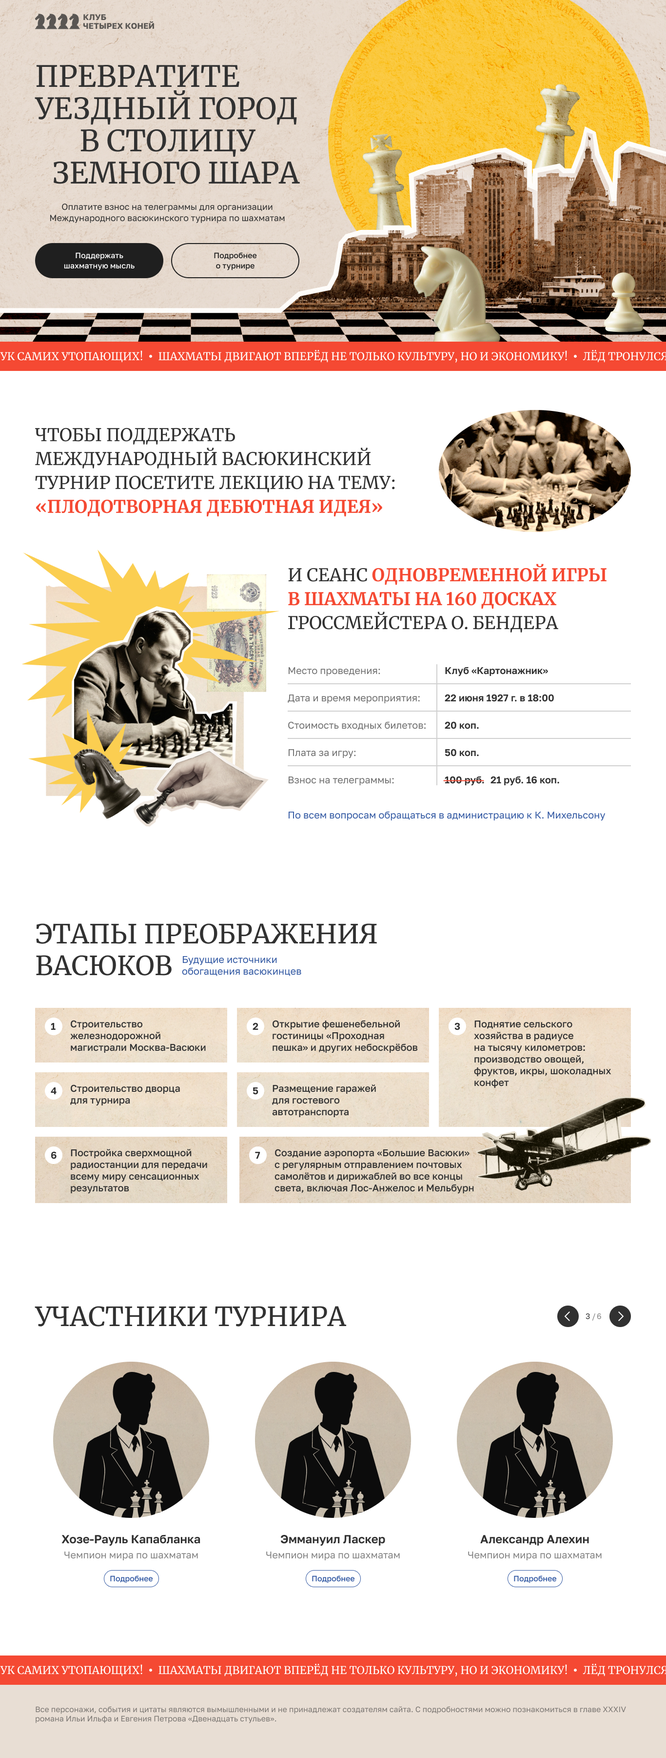
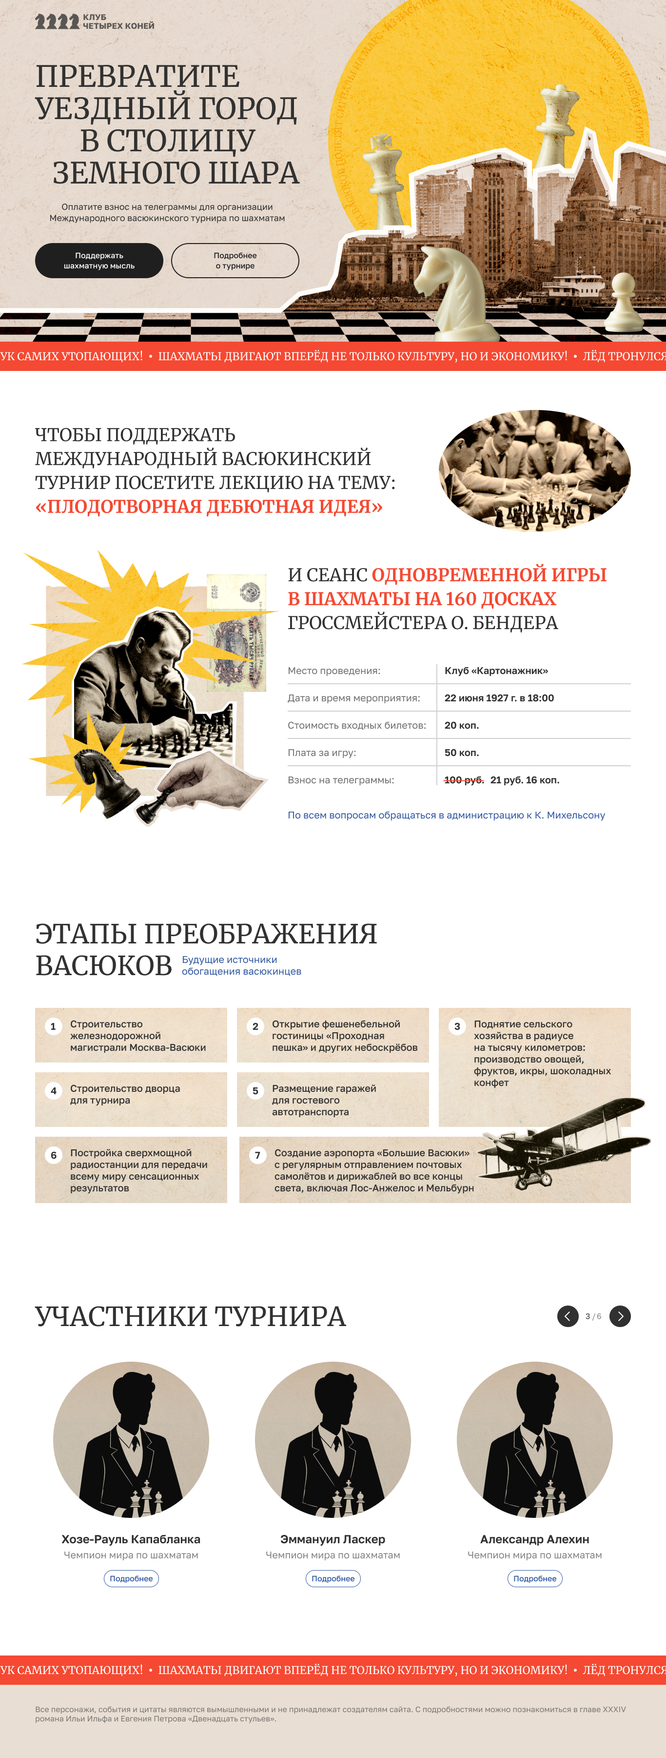
save

Changed region(s): [[0.0615, 0.3109, 0.3997, 0.4664]]

diff --git a/app/index.html b/app/index.html
@@ -1,1 +1,1 @@
-<!DOCTYPE html><html lang="ru"><head><meta charset="UTF-8"><meta http-equiv="X-UA-Compatible" content="IE=edge"><meta name="viewport" content="width=device-width,initial-scale=1"><title>Клуб четырех коней</title><link rel="icon" href="./images/favicons/favicon.ico" type="image/x-icon"><link rel="stylesheet" href="css/style.min.css"></head><body><header class="header"><div class="header__wrapper" style="background-image: url('../images/content/cover.jpg');"><div class="container"><div class="header__inner"><a class="header__logo logo" href="#"><img class="logo__img" src="./images/logo.png" alt="logo"></a><div class="header__content"><h1 class="header__title title"><span>Превратите уездный город</span> <span>в столицу</span> <span>земного шара</span></h1><div class="header__descr"><p>Оплатите взнос на телеграммы для организации Международного васюкинского турнира по шахматам</p></div><div class="header__btn-box"><button class="header__btn-dark">Поддержать шахматую мысль</button> <button class="header__btn-light">Подробнее<br>о турнире</button></div></div></div></div></div><div class="header__runnung-line"><div class="running-line"><ul class="running-line__box"><li>Дело помощи утопающим — дело рук самих утопающих!</li><li>Шахматы двигают вперед не только культуру, но и экономику!</li><li>Лед тронулся, господа присяжные заседатели!</li></ul><ul class="running-line__box"><li>Дело помощи утопающим — дело рук самих утопающих!</li><li>Шахматы двигают вперед не только культуру, но и экономику!</li><li>Лед тронулся, господа присяжные заседатели!</li></ul></div></div></header><main class="main"><section class="info"><div class="container"><div class="info__top"><div class="info__text-title title"><p>Чтобы поддержать Международный васюкинский турнир посетите лекцию на тему: <span>«Плодотворная дебютная идея»</span></p><picture><source srcset="images/content/info-img-1.webp" type="image/webp"><img class="info__top-img" src="images/content/info-img-1.jpg" alt="info-img"></picture></div></div><div class="info__inner"><div class="info__content"><picture><source srcset="images/content/info-img-2.webp" type="image/webp"><img class="info__content-img" src="images/content/info-img-2.png" alt="info-img"></picture><div class="info__text-title title"><p>и Сеанс <span>одновременной игры в шахматы на 160 досках</span> гроссмейстера О. Бендера</p></div><ul class="info__list"><li class="info__item">Место проведения: <span>Клуб «Картонажник»</span></li><li class="info__item">Дата и время мероприятия: <span>22 июня 1927 г. в 18:00</span></li><li class="info__item">Стоимость входных билетов: <span>20 коп.</span></li><li class="info__item">Плата за игру: <span>50 коп.</span></li><li class="info__item">Взнос на телеграммы: <span><span>100 руб.</span> <span>21 руб. 16 коп.</span></span></li></ul><a class="info__link" href="#">По всем вопросам обращаться в администрацию к К. Михельсону</a></div></div></div></section><section class="blog"><div class="container"><h2 class="blog__title title">Этапы преображения Васюков <span>Будущие источники обогащения васюкинцев</span></h2><div class="blog__wrapper"><ol class="blog__list"><li class="blog__item" style="background-image: url('images/decor/blog-bg.jpg')">Строительство железнодорожной магистрали Москва-Васюки</li><li class="blog__item" style="background-image: url('images/decor/blog-bg.jpg')">Открытие фешенебельной гостиницы «Проходная пешка» и других небоскрёбов</li><li class="blog__item" style="background-image: url('images/decor/blog-bg.jpg')">Поднятие сельского хозяйства в радиусе на тысячу километров: производство овощей, фруктов, икры, шоколадных конфет</li><li class="blog__item" style="background-image: url('images/decor/blog-bg.jpg')">Строительство дворца для турнира</li><li class="blog__item" style="background-image: url('images/decor/blog-bg.jpg')">Размещение гаражей для гостевого автотранспорта</li><li class="blog__item" style="background-image: url('images/decor/blog-bg.jpg')">Постройка сверхмощной радиостанции для передачи всему миру сенсационных результатов</li><li class="blog__item" style="background-image: url('images/decor/blog-bg.jpg')">Создание аэропорта «Большие Васюки» с регулярным отправлением почтовых самолётов и дирижаблей во все концы света, включая Лос-Анжелос и Мельбурн</li></ol><picture><source srcset="images/decor/airplane.webp" type="image/webp"><img class="blog__img" src="images/decor/airplane.png" alt="airplane"></picture></div></div></section></main><footer class="footer"><div class="footer__running-line"><div class="running-line"><ul class="running-line__box"><li>Дело помощи утопающим — дело рук самих утопающих!</li><li>Шахматы двигают вперед не только культуру, но и экономику!</li><li>Лед тронулся, господа присяжные заседатели!</li></ul><ul class="running-line__box"><li>Дело помощи утопающим — дело рук самих утопающих!</li><li>Шахматы двигают вперед не только культуру, но и экономику!</li><li>Лед тронулся, господа присяжные заседатели!</li></ul></div></div><div class="container"><div class="footer__text"><p>Все персонажи, события и цитаты являются вымышленными и не принадлежат создателям сайта. С подробностями можно познакомиться в главе XXXIV романа Ильи Ильфа и Евгения Петрова «Двенадцать стульев».</p></div></div></footer><script src="js/main.min.js"></script></body></html>
+<!DOCTYPE html><html lang="ru"><head><meta charset="UTF-8"><meta http-equiv="X-UA-Compatible" content="IE=edge"><meta name="viewport" content="width=device-width,initial-scale=1"><title>Клуб четырех коней</title><link rel="icon" href="./images/favicons/favicon.ico" type="image/x-icon"><link rel="stylesheet" href="css/style.min.css"></head><body><header class="header"><div class="header__wrapper" style="background-image: url('../images/content/cover.jpg');"><div class="container"><div class="header__inner"><a class="header__logo logo" href="#"><img class="logo__img" src="./images/logo.png" alt="logo"></a><div class="header__content"><h1 class="header__title title"><span>Превратите уездный город</span> <span>в столицу</span> <span>земного шара</span></h1><div class="header__descr"><p>Оплатите взнос на телеграммы для организации Международного васюкинского турнира по шахматам</p></div><div class="header__btn-box"><button class="header__btn-dark">Поддержать шахматую мысль</button> <button class="header__btn-light">Подробнее<br>о турнире</button></div></div></div></div></div><div class="header__runnung-line"><div class="running-line"><ul class="running-line__box"><li>Дело помощи утопающим — дело рук самих утопающих!</li><li>Шахматы двигают вперед не только культуру, но и экономику!</li><li>Лед тронулся, господа присяжные заседатели!</li></ul><ul class="running-line__box"><li>Дело помощи утопающим — дело рук самих утопающих!</li><li>Шахматы двигают вперед не только культуру, но и экономику!</li><li>Лед тронулся, господа присяжные заседатели!</li></ul></div></div></header><main class="main"><section class="info"><div class="container"><div class="info__top"><div class="info__text-title title"><p>Чтобы поддержать Международный васюкинский турнир посетите лекцию на тему: <span>«Плодотворная дебютная идея»</span></p><picture><source srcset="images/content/info-img-1.webp" type="image/webp"><img class="info__top-img" src="images/content/info-img-1.jpg" alt="info-img"></picture></div></div><div class="info__inner"><div class="info__content"><picture><source srcset="images/content/info-img-2.webp" type="image/webp"><img class="info__content-img" src="images/content/info-img-2.png" alt="info-img"></picture><div class="info__text-title title"><p>и Сеанс <span>одновременной игры в шахматы на 160 досках</span> гроссмейстера О. Бендера</p></div><ul class="info__list"><li class="info__item">Место проведения: <span>Клуб «Картонажник»</span></li><li class="info__item">Дата и время мероприятия: <span>22 июня 1927 г. в 18:00</span></li><li class="info__item">Стоимость входных билетов: <span>20 коп.</span></li><li class="info__item">Плата за игру: <span>50 коп.</span></li><li class="info__item">Взнос на телеграммы: <span><span>100 руб.</span> <span>21 руб. 16 коп.</span></span></li></ul><a class="info__link" href="#">По всем вопросам обращаться в администрацию к К. Михельсону</a></div></div></div></section><section class="blog"><div class="container"><h2 class="blog__title title">Этапы преображения Васюков <span>Будущие источники обогащения васюкинцев</span></h2><div class="blog__wrapper"><ol class="blog__list"><li class="blog__item" style="background-image: url('images/decor/blog-bg.jpg')">Строительство железнодорожной магистрали Москва-Васюки</li><li class="blog__item" style="background-image: url('images/decor/blog-bg.jpg')">Открытие фешенебельной гостиницы «Проходная пешка» и других небоскрёбов</li><li class="blog__item" style="background-image: url('images/decor/blog-bg.jpg')">Поднятие сельского хозяйства в радиусе на тысячу километров: производство овощей, фруктов, икры, шоколадных конфет</li><li class="blog__item" style="background-image: url('images/decor/blog-bg.jpg')">Строительство дворца для турнира</li><li class="blog__item" style="background-image: url('images/decor/blog-bg.jpg')">Размещение гаражей для гостевого автотранспорта</li><li class="blog__item" style="background-image: url('images/decor/blog-bg.jpg')">Постройка сверхмощной радиостанции для передачи всему миру сенсационных результатов</li><li class="blog__item" style="background-image: url('images/decor/blog-bg.jpg')">Создание аэропорта «Большие Васюки» с регулярным отправлением почтовых самолётов и дирижаблей во все концы света, включая Лос-Анжелос и Мельбурн</li></ol><picture><source srcset="images/decor/airplane.webp" type="image/webp"><img class="blog__img" src="images/decor/airplane.png" alt="airplane"></picture></div></div></section><section class="author"><div class="container"><div class="author__top"><h2 class="author__title title">Участники турнира</h2><div class="author__btn-box"><botton class="author__btn-prev"><svg width="12px" height="19px" viewBox="0 0 12 19"><path d="M 1.550781 8.660156 C 1.082031 9.125 1.082031 9.878906 1.550781 10.34375 L 7.550781 16.28125 C 8.019531 16.742188 8.78125 16.742188 9.25 16.28125 C 9.71875 15.816406 9.71875 15.0625 9.25 14.597656 L 4.097656 9.5 L 9.246094 4.402344 C 9.714844 3.9375 9.714844 3.183594 9.246094 2.71875 C 8.777344 2.257812 8.015625 2.257812 7.546875 2.71875 L 1.546875 8.65625 Z M 1.550781 8.660156 "/></svg><!-- <svg class="author__btn-left" width="12" height="20">              <svg class="author__btn-left" width="12px" height="20px">                <use href="images/sprite.svg#arrow-left"></use>              </svg> --></botton><button class="author__btn-next"><svg width="12px" height="19px" viewBox="0 0 12 19"><path d="M 10.449219 8.660156 C 10.917969 9.125 10.917969 9.878906 10.449219 10.34375 L 4.449219 16.28125 C 3.980469 16.742188 3.21875 16.742188 2.75 16.28125 C 2.28125 15.816406 2.28125 15.0625 2.75 14.597656 L 7.902344 9.5 L 2.753906 4.402344 C 2.285156 3.9375 2.285156 3.183594 2.753906 2.71875 C 3.222656 2.257812 3.984375 2.257812 4.453125 2.71875 L 10.453125 8.65625 Z M 10.449219 8.660156 "/></svg><!-- <svg class="author__btn-right" width="12" height="20">                <svg class="author__btn-right" width="12px" height="20px">                <use href="images/sprite.svg#arrow-right"></use>              </svg> --></button></div></div><ul class="author__list"><li class="author__item"><picture><source srcset="images/content/avatar/avatar-1.webp" type="image/webp"><img class="author__img" src="images/content/avatar/avatar-1.jpg" alt="author"></picture><div class="author__box"><span class="author__name">Хозе-Рауль Капабланка</span> <span class="author__rank">Чемпион мира по шахматам</span> <a class="author__link" href="#">Подробнее</a></div></li><li class="author__item"><picture><source srcset="images/content/avatar/avatar-1.webp" type="image/webp"><img class="author__img" src="images/content/avatar/avatar-1.jpg" alt="author"></picture><div class="author__box"><span class="author__name">Эммануил Ласкер</span> <span class="author__rank">Чемпион мира по шахматам</span> <a class="author__link" href="#">Подробнее</a></div></li><li class="author__item"><picture><source srcset="images/content/avatar/avatar-1.webp" type="image/webp"><img class="author__img" src="images/content/avatar/avatar-1.jpg" alt="author"></picture><div class="author__box"><span class="author__name">Александр Алехин</span> <span class="author__rank">Чемпион мира по шахматам</span> <a class="author__link" href="#">Подробнее</a></div></li><li class="author__item"><picture><source srcset="images/content/avatar/avatar-1.webp" type="image/webp"><img class="author__img" src="images/content/avatar/avatar-1.jpg" alt="author"></picture><div class="author__box"><span class="author__name">Арон Нимцович</span> <span class="author__rank">Чемпион мира по шахматам</span> <a class="author__link" href="#">Подробнее</a></div></li><li class="author__item"><picture><source srcset="images/content/avatar/avatar-1.webp" type="image/webp"><img class="author__img" src="images/content/avatar/avatar-1.jpg" alt="author"></picture><div class="author__box"><span class="author__name">Рихард Рети</span> <span class="author__rank">Чемпион мира по шахматам</span> <a class="author__link" href="#">Подробнее</a></div></li><li class="author__item"><picture><source srcset="images/content/avatar/avatar-1.webp" type="image/webp"><img class="author__img" src="images/content/avatar/avatar-1.jpg" alt="author"></picture><div class="author__box"><span class="author__name">Остап Бендер</span> <span class="author__rank">Гроссмейстер</span> <a class="author__link" href="#">Подробнее</a></div></li></ul></div></section></main><footer class="footer"><div class="footer__running-line"><div class="running-line"><ul class="running-line__box"><li>Дело помощи утопающим — дело рук самих утопающих!</li><li>Шахматы двигают вперед не только культуру, но и экономику!</li><li>Лед тронулся, господа присяжные заседатели!</li></ul><ul class="running-line__box"><li>Дело помощи утопающим — дело рук самих утопающих!</li><li>Шахматы двигают вперед не только культуру, но и экономику!</li><li>Лед тронулся, господа присяжные заседатели!</li></ul></div></div><div class="container"><div class="footer__text"><p>Все персонажи, события и цитаты являются вымышленными и не принадлежат создателям сайта. С подробностями можно познакомиться в главе XXXIV романа Ильи Ильфа и Евгения Петрова «Двенадцать стульев».</p></div></div></footer><script src="js/main.min.js"></script></body></html>

diff --git a/app/html/index.html b/app/html/index.html
@@ -95,6 +95,93 @@
       </div>
     </section>
 
+    <section class="author">
+      <div class="container">
+        <div class="author__top">
+          <h2 class="author__title title">Участники турнира</h2>
+          <div class="author__btn-box">
+            <botton class="author__btn-prev">
+              <svg width="12px" height="19px" viewBox="0 0 12 19">
+                <path
+                  d="M 1.550781 8.660156 C 1.082031 9.125 1.082031 9.878906 1.550781 10.34375 L 7.550781 16.28125 C 8.019531 16.742188 8.78125 16.742188 9.25 16.28125 C 9.71875 15.816406 9.71875 15.0625 9.25 14.597656 L 4.097656 9.5 L 9.246094 4.402344 C 9.714844 3.9375 9.714844 3.183594 9.246094 2.71875 C 8.777344 2.257812 8.015625 2.257812 7.546875 2.71875 L 1.546875 8.65625 Z M 1.550781 8.660156 " />
+              </svg>
+              <!-- <svg class="author__btn-left" width="12" height="20">
+              <svg class="author__btn-left" width="12px" height="20px">
+                <use href="images/sprite.svg#arrow-left"></use>
+              </svg> -->
+            </botton>
+            <button class="author__btn-next">
+              <svg width="12px" height="19px" viewBox="0 0 12 19">
+                <path
+                  d="M 10.449219 8.660156 C 10.917969 9.125 10.917969 9.878906 10.449219 10.34375 L 4.449219 16.28125 C 3.980469 16.742188 3.21875 16.742188 2.75 16.28125 C 2.28125 15.816406 2.28125 15.0625 2.75 14.597656 L 7.902344 9.5 L 2.753906 4.402344 C 2.285156 3.9375 2.285156 3.183594 2.753906 2.71875 C 3.222656 2.257812 3.984375 2.257812 4.453125 2.71875 L 10.453125 8.65625 Z M 10.449219 8.660156 " />
+              </svg>
+              <!-- <svg class="author__btn-right" width="12" height="20">
+                <svg class="author__btn-right" width="12px" height="20px">
+                <use href="images/sprite.svg#arrow-right"></use>
+              </svg> -->
+            </button>
+          </div>
+        </div>
+        <ul class="author__list">
+
+          <li class="author__item">
+            <img class="author__img" src="images/content/avatar/avatar-1.jpg" alt="author">
+            <div class="author__box">
+              <span class="author__name">Хозе-Рауль Капабланка</span>
+              <span class="author__rank">Чемпион мира по шахматам</span>
+              <a class="author__link" href="#">Подробнее</a>
+            </div>
+          </li>
+
+          <li class="author__item">
+            <img class="author__img" src="images/content/avatar/avatar-1.jpg" alt="author">
+            <div class="author__box">
+              <span class="author__name">Эммануил Ласкер</span>
+              <span class="author__rank">Чемпион мира по шахматам</span>
+              <a class="author__link" href="#">Подробнее</a>
+            </div>
+          </li>
+
+          <li class="author__item">
+            <img class="author__img" src="images/content/avatar/avatar-1.jpg" alt="author">
+            <div class="author__box">
+              <span class="author__name">Александр Алехин</span>
+              <span class="author__rank">Чемпион мира по шахматам</span>
+              <a class="author__link" href="#">Подробнее</a>
+            </div>
+          </li>
+
+          <li class="author__item">
+            <img class="author__img" src="images/content/avatar/avatar-1.jpg" alt="author">
+            <div class="author__box">
+              <span class="author__name">Арон Нимцович</span>
+              <span class="author__rank">Чемпион мира по шахматам</span>
+              <a class="author__link" href="#">Подробнее</a>
+            </div>
+          </li>
+
+          <li class="author__item">
+            <img class="author__img" src="images/content/avatar/avatar-1.jpg" alt="author">
+            <div class="author__box">
+              <span class="author__name">Рихард Рети</span>
+              <span class="author__rank">Чемпион мира по шахматам</span>
+              <a class="author__link" href="#">Подробнее</a>
+            </div>
+          </li>
+
+          <li class="author__item">
+            <img class="author__img" src="images/content/avatar/avatar-1.jpg" alt="author">
+            <div class="author__box">
+              <span class="author__name">Остап Бендер</span>
+              <span class="author__rank">Гроссмейстер</span>
+              <a class="author__link" href="#">Подробнее</a>
+            </div>
+          </li>
+
+        </ul>
+      </div>
+    </section>
+
   </main>
 
   @@include('components/_footer.html')

diff --git a/app/scss/pages/index.scss b/app/scss/pages/index.scss
@@ -1,6 +1,6 @@
 .info {
   overflow: hidden;
-  padding: 80px 0 103px;
+  padding: 80px 0 100px;
 
   &__top {
     display: flex;
@@ -39,19 +39,19 @@
     position: absolute;
     content: '';
     top: 38px;
-    right: 703px;
+    right: 720px;
   }
 
   &__content {
     position: relative;
     display: flex;
     flex-direction: column;
-    max-width: 687px;
+    max-width: 704px;
     padding-top: 38px;
   }
 
   &__list {
-    padding: 16px 0 33px;
+    padding: 20px 0 33px;
   }
 
   &__item {
@@ -61,7 +61,7 @@
 
     & span {
       display: inline-block;
-      max-width: 381px;
+      max-width: 399px;
       width: 100%;
       padding: 15px;
       @extend %GolosText-600;
@@ -124,7 +124,7 @@
       "a b c"
       "d e c"
       "f g g";
-    gap: 16px;
+    gap: 19px;
     list-style: none;
     counter-reset: num;
   }
@@ -132,7 +132,7 @@
   &__item {
     position: relative;
     max-height: 100%;
-    padding: 20px 20px 20px 70px;
+    padding: 20px 20px 20px 72px;
     @extend %GolosText-500;
     color: $title;
     background-position: center top;
@@ -188,7 +188,100 @@
   &__img {
     position: absolute;
     content: '';
-    right: -70px;
-    bottom: -7px;
+    right: -63px;
+    bottom: -2px;
+  }
+}
+
+.author {
+  padding: 100px 0 100px;
+
+  &__top {
+    display: flex;
+    justify-content: space-between;
+    align-items: center;
+    margin-bottom: 60px;
+  }
+
+  &__title {
+    font-size: 54px;
+    text-transform: uppercase;
+  }
+
+  &__btn-box {
+    display: flex;
+    justify-content: space-between;
+    max-width: 151px;
+    width: 100%;
+  }
+
+  &__btn-prev,
+  &__btn-next {
+    display: inline-flex;
+    justify-content: center;
+    align-items: center;
+    width: 44px;
+    height: 44px;
+    background-color: $title;
+    border: none;
+    border-radius: 50%;
+    cursor: pointer;
+
+    & svg {
+      fill: white;
+    }
+  }
+
+  // &__btn-left {}
+
+  // &__btn-right {}
+
+  &__list {
+    display: flex;
+    flex-wrap: wrap;
+    justify-content: space-between;
+    padding: 0 17px;
+  }
+
+  &__item {
+    max-width: 394px;
+    padding: 0 20px;
+    margin-bottom: 40px;
+  }
+
+  &__img {
+    width: 320px;
+    height: 320px;
+    margin: 0 auto 28px;
+    border-radius: 50%;
+    object-fit: cover;
+  }
+
+  &__box {
+    text-align: center;
+  }
+
+  &__name {
+    display: block;
+    margin-bottom: 6px;
+    @extend %GolosText-600;
+    color: $title;
+    font-size: 24px;
+  }
+
+  &__rank {
+    display: block;
+    margin-bottom: 20px;
+    color: $text-lighten;
+  }
+
+  &__link {
+    display: inline-block;
+    padding: 8px 10px;
+    @extend %GolosText-500;
+    font-size: 16px;
+    color: $optional;
+    border: 1px solid $optional;
+    border-radius: 25px;
   }
 }
